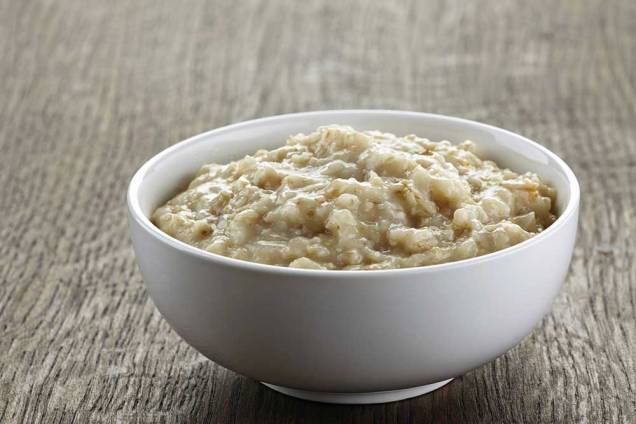
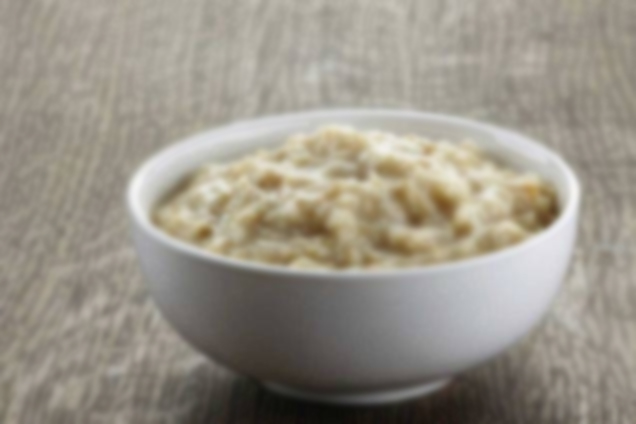
Fixade design på index

diff --git a/index.html b/index.html
@@ -14,11 +14,27 @@
         </header>
 
         <nav class="nav1">
-            nav
+            <a href="menu.html">Menú</a>
+            <a href="">Beställ</a>
+            <a href="info.html">Info</a>
         </nav>
 
         <main class="ma1">
-            main
+            <img class="sec_img1" src="img/grot1.jpg"></img>
+            <section class="sec_tex1">
+                <h2>Bienvenue à ristorante</h2>
+                <p>Lorem ipsum dolor, sit amet consectetur adipisicing elit. Dignissimos eligendi deserunt omnis saepe illum consequatur inventore dolorum et laboriosam perferendis nihil eos laudantium repellat vel minus, veniam praesentium impedit voluptatum deleniti itaque vitae cupiditate est voluptatibus! Delectus aliquid placeat minus atque laudantium sequi dolores labore dicta accusamus enim nemo molestias repellendus id, molestiae asperiores esse unde, ex accusantium eum deserunt eius vel vitae omnis. Consectetur repellat ad voluptate quos suscipit architecto corrupti. Dolorem accusantium soluta iure a ea voluptas! Delectus pariatur iste culpa? Quod consequatur libero maiores totam error saepe rem natus, voluptate temporibus exercitationem praesentium repellat officiis esse placeat.</p>
+            </section>
+            <img class="sec_img2" src="img/grot2.jpg"></img>
+            <section class="sec_tex2">
+                <h2>El sélection del menú</h2>
+                <p>Lorem ipsum dolor sit, amet consectetur adipisicing elit. Doloribus quasi sunt eveniet perspiciatis et atque, cupiditate rerum? Optio facere quidem reprehenderit voluptatem modi ipsum delectus id assumenda, illo iure illum, laborum eaque libero enim ex at aspernatur obcaecati. Porro, possimus saepe necessitatibus fuga tempora ex optio excepturi illo velit exercitationem voluptate, quo atque iure culpa ducimus doloremque vero laudantium repellendus! Ut commodi saepe voluptates quidem cum adipisci, deleniti est tempora suscipit quaerat vel aut, alias nam blanditiis. Molestiae dolor libero ea sed ducimus quidem laborum fugiat at, dolorum, qui sunt labore, aperiam reiciendis non fuga dicta nemo quaerat deserunt odit.</p>
+            </section>
+            <img class="sec_img3" src="img/grot3.jpg"></img>
+            <section class="sec_tex3">
+                <h2>La bonne bouillie!</h2>
+                <p>Lorem ipsum dolor sit amet consectetur adipisicing elit. Voluptatem animi quaerat dolores voluptatibus ab et, voluptates ipsa atque iusto est enim inventore soluta maiores quo ducimus cupiditate dolorem dignissimos sunt. Quam placeat inventore praesentium consequatur labore neque. Assumenda eaque facere culpa nam aperiam cumque quia dolor voluptatibus iste magnam cupiditate, voluptatum modi nulla aliquid, quidem itaque, ea tempore ducimus quam qui quisquam laborum voluptatem? Odit, molestias ex? Aliquid molestias nesciunt debitis doloribus, voluptatum beatae in enim ipsam saepe sapiente, blanditiis aliquam reprehenderit esse commodi? Illo vero possimus inventore recusandae incidunt, officia sed eum esse nulla quis repellendus placeat maiores est.</p>
+            </section>
         </main>
 
         <footer class="fo1">

diff --git a/css/style.css b/css/style.css
@@ -8,7 +8,7 @@
     display: grid;
     height: 100%;
     width: 100%;
-    grid-template-rows: 300px 100px 1000px 200px;
+    grid-template-rows: 300px 100px 900px 200px;
     grid-template-columns: 1fr;
     grid-template-areas: 
         "he"
@@ -20,27 +20,106 @@
 
 .he1{
     font-size: 50px;
-    background-image: url("../img/header_grot.jpg");
+    background-image: url("../img/header_grot_blurred.jpg");
     background-repeat: no-repeat;
     background-size: 100%;
     margin-top: -20%;
     margin-left: -10%;
-    filter: blur(8px);
-    -webkit-filter: blur(8px);
+    grid-area: he;
 }
 
 h1{
-    margin-top: 20%;
+    margin-top: 25%;
+    margin-left: 15%;
+    font-family: Georgia, 'Times New Roman', Times, serif;
 }
 
 .nav1{
-    background: blue;
+    background:  rgb(66, 66, 60);
+    grid-area: nav;
+    display: flex;
+    flex-direction: row;
+    justify-content: space-evenly;
+    align-items: center;
+}
+
+a{
+    text-decoration: none;
+    color: black;
+    font-size: 20px;
+    font-weight: bolder;
+}
+
+a:hover {
+    animation: img_animation 60s forwards linear;
+}
+
+@keyframes img_animation {
+    from {
+        opacity: 1;
+    }
+
+    /*50% {
+        opacity: 0;
+        border-radius: 50%;
+        transform: scale(1.5, 1.5) rotate(180deg);
+    }*/
+
+    to {
+        opacity: 0.9;
+        transform: scale(30, 1.5);
+    }
 }
 
 .ma1{
-    background: yellow;
+    grid-area: main;
+    display: grid;
+    height: 100%;
+    width: 100%;
+    grid-template-rows: 300px 300px 300px;
+    grid-template-columns: 1fr 1fr;
+    grid-template-areas: 
+        "img1 sec1"
+        "sec2 img2"
+        "img3 sec3"
+    ;
+    overflow: hidden;
+}
+
+.sec_img1{
+    grid-area: img1;
+    width: 100%;
+    height: 100%;
+}
+
+.sec_tex1{
+    grid-area: sec1;
+    background: gray;
+}
+
+.sec_img2{
+    grid-area: img2;
+    width: 100%;
+    height: 100%;
+}
+
+.sec_tex2{
+    grid-area: sec2;
+    background:gray;
+}
+
+.sec_img3{
+    grid-area: img3;
+    width: 100%;
+    height: 100%;
+}
+
+.sec_tex3{
+    grid-area: sec3;
+    background: gray;
 }
 
 .fo1{
-    background: red;
+    grid-area: footer;
+    background:  rgb(66, 66, 60);
 }

diff --git a/info.html b/info.html
@@ -1,0 +1,24 @@
+<!DOCTYPE html>
+<html lang="en">
+<head>
+    <meta charset="UTF-8">
+    <meta name="viewport" content="width=device-width, initial-scale=1.0">
+    <link rel="stylesheet" href="css/info_style.css">
+    <title>El info</title>
+</head>
+<body>
+    <div class="container">
+        <section class="inf_sec">
+            <section></section>
+        </section>
+
+        <section class="img_sec">
+
+        </section>
+
+        <footer>
+            footer
+        </footer>
+    </div>
+</body>
+</html>

diff --git a/misc/dokumentation.html b/misc/dokumentation.html
@@ -88,10 +88,10 @@
 
     <h3>Lektioner vecka 47</h3>
     <!-- Fyll på med dokumentation här. -->
-
+    Jag har påbörjat min idé och fixat en första startsida med viss css-grid struktur
     <h3>Lektioner vecka 48</h3>
     <!-- Fyll på med dokumentation här. -->
-
+    fixat stor del av första sidans design, fixa img storlek
     <h3>Lektioner vecka 49</h3>
     <!-- Fyll på med dokumentation här. -->
 

diff --git a/menu.html b/menu.html
@@ -1,0 +1,17 @@
+<!DOCTYPE html>
+<html lang="en">
+<head>
+    <meta charset="UTF-8">
+    <meta name="viewport" content="width=device-width, initial-scale=1.0">
+    <link rel="stylesheet" href="css/menu_style.css">
+    <title>El menú</title>
+</head>
+<body>
+    <h1>El menú</h1>
+    <ul>
+        <li>gröt</li>
+        <li>gröt</li>
+        <li>gröt</li>
+    </ul>
+</body>
+</html>
